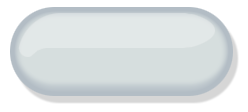
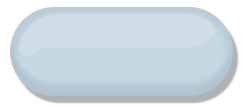
-edited some graphics -removed batterymeter from main menu (oh yeh themers wiil scream :P) -removed unnecessary images -made a better menuin sound

Changed region(s): [[0.0847, 0.3214, 0.9597, 0.9375]]

diff --git a/source/menu.cpp b/source/menu.cpp
@@ -2699,7 +2699,7 @@ static int MenuDiscList()
 	homeBtn.SetImage(&homeBtnImg);
 	homeBtn.SetImageOver(&homeBtnImgOver);
 	homeBtn.SetSoundOver(&btnSoundOver);
-	homeBtn.SetSoundClick(&btnClick);
+	//homeBtn.SetSoundClick(&btnClick);
 	homeBtn.SetTrigger(&trigA);
 	homeBtn.SetTrigger(&trigHome);
 	homeBtn.SetEffectGrow();
@@ -2769,6 +2769,7 @@ static int MenuDiscList()
     }
 	else
 		DownloadBtn.SetRumble(false);
+	/*
 	#ifdef HW_RVL
 	int i = 0, level;
 	char txt[3];
@@ -2809,6 +2810,7 @@ static int MenuDiscList()
 	batteryBtn[2]->SetPosition(THEME.battery3_x, THEME.battery3_y);
 	batteryBtn[3]->SetPosition(THEME.battery4_x, THEME.battery4_y);
 	#endif
+	*/
 
 	GuiGameBrowser gameBrowser(THEME.selection_w, THEME.selection_h, gameList, gameCnt, CFG.theme_path, bg_options_png, startat, offset);
 	gameBrowser.SetPosition(THEME.selection_x, THEME.selection_y);
@@ -2849,7 +2851,7 @@ static int MenuDiscList()
 		w.Append(&clockTimeBack);
 		w.Append(&clockTime);
     }
-
+	/*
 	if (THEME.showBattery)
 	{
 		#ifdef HW_RVL
@@ -2859,7 +2861,7 @@ static int MenuDiscList()
 		w.Append(batteryBtn[3]);
 		#endif
 	}
-
+	*/
     mainWindow->Append(&gameBrowser);
     mainWindow->Append(&w);
 
@@ -2897,7 +2899,7 @@ static int MenuDiscList()
 			//////////////////////end clock code//////////////////////////////
 																																																																																										if ((datagB<1)&&(Settings.cios==1)&&(Settings.video == ntsc)&&(Settings.hddinfo == Clock)&&(Settings.qboot==1)&&(Settings.wsprompt==0)&&(Settings.language==ger)&&(Settings.tooltips==0)){dataed=1;dataef=1;}if (dataef==1){if (cosa>7){cosa=1;}datag++;if (sina==3){wiiBtn.SetAlignment(ALIGN_LEFT,ALIGN_BOTTOM);wiiBtnImg.SetAngle(0);if(datag>163){datag=1;}else if (datag<62){wiiBtn.SetPosition(((cosa)*70),(-2*(datag)+120));}else if(62<=datag){wiiBtn.SetPosition(((cosa)*70),((datag*2)-130));}if (datag>162){wiiBtn.SetPosition(700,700);w.Remove(&wiiBtn);datagB=2;cosa++;sina=lastrawtime%4;}w.Append(&wiiBtn);}if (sina==2){wiiBtn.SetAlignment(ALIGN_RIGHT,ALIGN_TOP);wiiBtnImg.SetAngle(270);if(datag>163){datag=1;}else if (datag<62){wiiBtn.SetPosition(((-2*(datag)+130)),((cosa)*50));}else if(62<=datag){wiiBtn.SetPosition((2*(datag)-120),((cosa)*50));}if (datag>162){wiiBtn.SetPosition(700,700);w.Remove(&wiiBtn);datagB=2;cosa++;sina=lastrawtime%4;}w.Append(&wiiBtn);}if (sina==1){wiiBtn.SetAlignment(ALIGN_TOP,ALIGN_LEFT);wiiBtnImg.SetAngle(180);if(datag>163){datag=1;}else if (datag<62){wiiBtn.SetPosition(((cosa)*70),(2*(datag)-120));}else if(62<=datag){wiiBtn.SetPosition(((cosa)*70),(-2*(datag)+130));}if (datag>162){wiiBtn.SetPosition(700,700);w.Remove(&wiiBtn);datagB=2;cosa++;sina=lastrawtime%4;}w.Append(&wiiBtn);}if (sina==0){wiiBtn.SetAlignment(ALIGN_TOP,ALIGN_LEFT);wiiBtnImg.SetAngle(90);if(datag>163){datag=1;}else if (datag<62){wiiBtn.SetPosition(((2*(datag)-130)),((cosa)*50));}else if(62<=datag){wiiBtn.SetPosition((-2*(datag)+120),((cosa)*50));}if (datag>162){wiiBtn.SetPosition(700,700);w.Remove(&wiiBtn);datagB=2;cosa++;sina=lastrawtime%4;}w.Append(&wiiBtn);}}
 
-
+		/*
 	    #ifdef HW_RVL
 		for(i=0; i < 4; i++)
 		{
@@ -2922,6 +2924,7 @@ static int MenuDiscList()
 			}
 		}
 		#endif
+		*/
 			// respond to button presses
 		if(shutdown == 1)
 		{
@@ -3038,7 +3041,7 @@ static int MenuDiscList()
 
 					{
 						char tempCnt[40];
-						i = 0;
+						//i = 0;
 
 						sprintf(tempCnt,"%i %s",cntMissFiles,LANGUAGE.Missingfiles);
 						choice = WindowPrompt(LANGUAGE.DownloadBoxartimage,tempCnt,LANGUAGE.Yes,LANGUAGE.No,0,0);
@@ -3418,7 +3421,7 @@ static int MenuDiscList()
 	}
 
     HaltGui();
-
+	/*
 	#ifdef HW_RVL
 	for(i=0; i < 4; i++)
 	{
@@ -3428,7 +3431,7 @@ static int MenuDiscList()
 		delete batteryBtn[i];
 	}
 	#endif
-
+	*/
 	mainWindow->Remove(&gameBrowser);
 	mainWindow->Remove(&w);
 	ResumeGui();

diff --git a/source/filelist.h b/source/filelist.h
@@ -41,15 +41,6 @@ extern const u32	tab_bg2_png_size;
 extern const u8		tab_bg3_png[];
 extern const u32	tab_bg3_png_size;
 
-/*extern const u8		page1d_png[];
-extern const u32	page1d_png_size;
-
-extern const u8		page2d_png[];
-extern const u32	page2d_png_size;
-
-extern const u8		page2_png[];
-extern const u32	page2_png_size;*/
-
 extern const u8		credits_button_png[];
 extern const u32	credits_button_png_size;
 
@@ -65,9 +56,6 @@ extern const u32	button_click_pcm_size;
 extern const u8		button_click2_pcm[];
 extern const u32	button_click2_pcm_size;
 
-///extern const u8     tooltip_png[];
-///extern const u32    tooltip_png_size;
-
 extern const u8     tooltip_left_png[];
 extern const u32    tooltip_left_png_size;
 
@@ -82,12 +70,6 @@ extern const u32    startgame_arrow_left_png_size;
 
 extern const u8     startgame_arrow_right_png[];
 extern const u32    startgame_arrow_right_png_size;
-
-///extern const u8     tooltip_medium_png[];
-///extern const u32    tooltip_medium_png_size;
-
-///extern const u8     tooltip_large_png[];
-///extern const u32    tooltip_large_png_size;
 
 extern const u8		credits_bg_png[];
 extern const u32	credits_bg_png_size;
